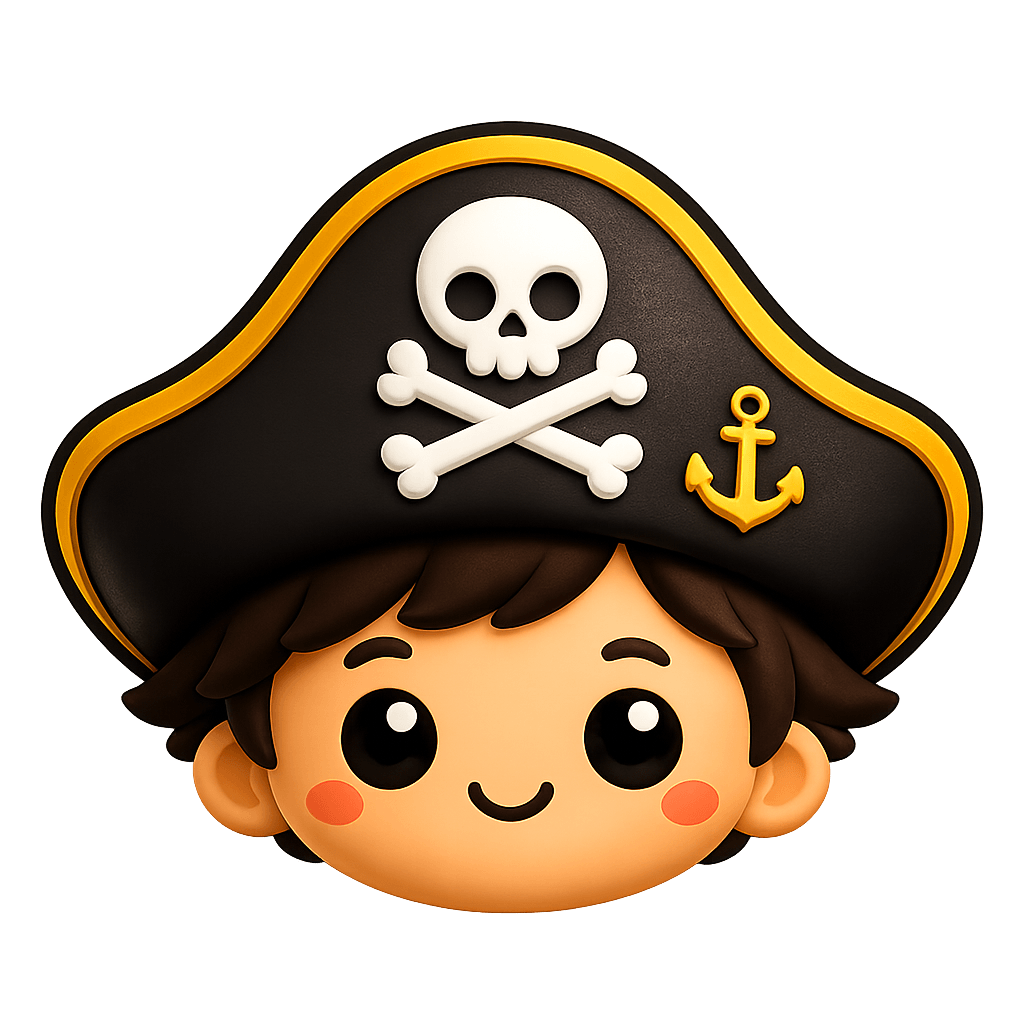
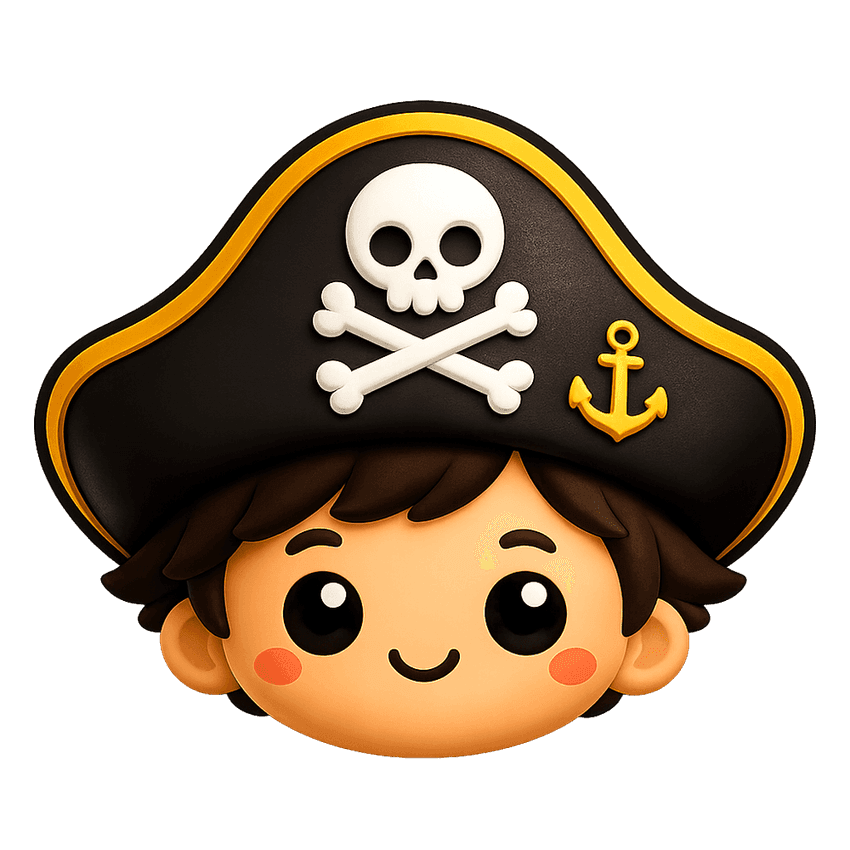
compressed pics

Changed region(s): [[0.6424, 0.6424, 0.6729, 0.7035], [0.5506, 0.6118, 0.6118, 0.6424]]

diff --git a/src/components/WalletModes.tsx b/src/components/WalletModes.tsx
@@ -26,7 +26,7 @@ const OPEN_MODE_BOXES = [
   {
     title: "Create Wallet",
     description: "Initialize your standard public EOA wallet to start managing your assets.",
-    imageSrc: "/wallet_modes/create_wallet_2.png",
+    imageSrc: "/wallet_modes/create_wallet_2.webp",
     imageAlt: "Create Wallet Screen",
     bullets: [
       "Standard EOA setup in seconds",
@@ -37,7 +37,7 @@ const OPEN_MODE_BOXES = [
   {
     title: "Use the Wallet",
     description: "Transfer, swap, and interact publicly just like every other wallet.",
-    imageSrc: "/wallet_modes/ship_send.png",
+    imageSrc: "/wallet_modes/ship_send.webp",
     imageAlt: "Use the Wallet Screen",
     bullets: [
       "Public transfer, swap, and bridge",
@@ -53,7 +53,7 @@ const NOID_MODE_PANELS = [
     title: "Hide Your Funds",
     description:
       "Move assets from your public balance into the shielded Noid pool. Once hidden, your holdings are cryptographically detached from your public address — invisible on-chain, yet always provably yours.",
-    imageSrc: "/wallet_modes/mask.png",
+    imageSrc: "/wallet_modes/mask.webp",
     imageAlt: "Hide Your Funds Screen",
     bullets: [
       "Privatize any token balance instantly",
@@ -67,7 +67,7 @@ const NOID_MODE_PANELS = [
     title: "Hidden Transfer",
     description:
       "Send value to anyone without revealing who, what, or how much. Transfers settle inside the shielded pool and are verified by zero-knowledge proofs instead of a public ledger.",
-    imageSrc: "/wallet_modes/hidden_trasnfer_successful.png",
+    imageSrc: "/wallet_modes/hidden_trasnfer_successful.webp",
     imageAlt: "Hidden Transfer Screen",
     bullets: [
       "Send anonymously to any address",
@@ -81,7 +81,7 @@ const NOID_MODE_PANELS = [
     title: "Unhide Your Funds",
     description:
       "Step back into open mode whenever you want. Withdraw from the shielded pool to any clean address with instant liquidity and zero waiting periods — privacy on your terms.",
-    imageSrc: "/wallet_modes/unmask_meno.png",
+    imageSrc: "/wallet_modes/unmask_meno.webp",
     imageAlt: "Unhide Your Funds Screen",
     bullets: [
       "Withdraw to any clean EOA on demand",
@@ -95,7 +95,7 @@ const NOID_MODE_PANELS = [
     title: "Hidden Actions",
     description:
       "Don't just hold privately — act privately. Swap, bridge, and NFTs entirely inside the shielded pool, so every move you make stays completely unseen on-chain.",
-    imageSrc: "/meno/hidden_swaps.png",
+    imageSrc: "/meno/hidden_swaps.webp",
     imageAlt: "Hidden swaps and bridges",
     bullets: [
       "Hidden swaps with zero trace",

diff --git a/src/components/Hero.tsx b/src/components/Hero.tsx
@@ -146,7 +146,7 @@ export default function Hero() {
                     border: "1px solid rgba(163,110,20,0.18)",
                     boxShadow: "0 24px 60px rgba(23,19,17,0.18), 0 8px 20px rgba(23,19,17,0.10), 0 1px 0 rgba(255,255,255,0.7) inset",
                   }}>
-                  <Image src="/wallet/lock.png" alt="Menoid unlock screen" width={480} height={760} className="w-full h-auto" />
+                  <Image src="/wallet/lock.webp" alt="Menoid unlock screen" width={480} height={760} className="w-full h-auto" />
                 </div>
                 <div className="absolute -bottom-7 left-1/2 -translate-x-1/2 whitespace-nowrap">
                   <span className="font-mono text-[9px] uppercase tracking-[0.22em] text-[var(--muted)]">Unlock</span>
@@ -160,7 +160,7 @@ export default function Hero() {
                     border: "1px solid rgba(163,110,20,0.22)",
                     boxShadow: "0 32px 80px rgba(23,19,17,0.22), 0 12px 32px rgba(163,110,20,0.14), 0 1px 0 rgba(255,255,255,0.7) inset",
                   }}>
-                  <Image src="/wallet/openMOde.png" alt="Menoid Open Mode" width={480} height={760} className="w-full h-auto" priority />
+                  <Image src="/wallet/openMOde.webp" alt="Menoid Open Mode" width={480} height={760} className="w-full h-auto" priority />
                 </div>
                 <div className="absolute -bottom-7 left-1/2 -translate-x-1/2 whitespace-nowrap">
                   <span className="font-mono text-[9px] uppercase tracking-[0.22em] text-[var(--gold-deep)]">Open Mode</span>
@@ -174,7 +174,7 @@ export default function Hero() {
                     border: "1px solid rgba(163,110,20,0.18)",
                     boxShadow: "0 24px 60px rgba(23,19,17,0.18), 0 8px 20px rgba(23,19,17,0.10), 0 1px 0 rgba(255,255,255,0.7) inset",
                   }}>
-                  <Image src="/wallet/NoidMode.png" alt="Menoid Noid Mode" width={480} height={760} className="w-full h-auto" />
+                  <Image src="/wallet/NoidMode.webp" alt="Menoid Noid Mode" width={480} height={760} className="w-full h-auto" />
                 </div>
                 <div className="absolute -bottom-7 left-1/2 -translate-x-1/2 whitespace-nowrap">
                   <span className="font-mono text-[9px] uppercase tracking-[0.22em] text-[var(--ink-soft)]">Noid Mode</span>

diff --git a/src/components/Loader.tsx b/src/components/Loader.tsx
@@ -126,7 +126,7 @@ export default function Loader() {
             }}
           >
             {/* eslint-disable-next-line @next/next/no-img-element */}
-            <img src="/texts/wttu.png" alt="Where Treasure Travels Unseen" style={{ display: "block", width: "100%", height: "auto" }} />
+            <img src="/texts/wttu.webp" alt="Where Treasure Travels Unseen" style={{ display: "block", width: "100%", height: "auto" }} />
           </div>
         )}
 
@@ -134,7 +134,7 @@ export default function Loader() {
         {title === "menoid" && (
           <div style={{ ...anchor("calc(-1 * clamp(30px, 4.5vw, 40px))"), width: "min(90vw, 1060px)", animation: "menoid-in 900ms var(--ease-out-quart) both" }}>
             {/* eslint-disable-next-line @next/next/no-img-element */}
-            <img src="/texts/menoid.png" alt="Menoid" style={{ display: "block", width: "100%", height: "auto" }} />
+            <img src="/texts/menoid.webp" alt="Menoid" style={{ display: "block", width: "100%", height: "auto" }} />
           </div>
         )}
 
@@ -175,7 +175,7 @@ export default function Loader() {
         {/* ── AI-NATIVE PRIVATE WALLET (smaller, tight below the line) ── */}
         <div style={{ ...anchor("clamp(74px, 9vw, 96px)"), width: "min(54vw, 420px)", animation: "ld-in 800ms var(--ease-out-quart) both" }}>
           {/* eslint-disable-next-line @next/next/no-img-element */}
-          <img src="/texts/ai-text.png" alt="AI-Native Private Wallet" style={{ display: "block", width: "100%", height: "auto" }} />
+          <img src="/texts/ai-text.webp" alt="AI-Native Private Wallet" style={{ display: "block", width: "100%", height: "auto" }} />
         </div>
       </div>
 

diff --git a/src/components/Privacy.tsx b/src/components/Privacy.tsx
@@ -8,7 +8,7 @@ const STEPS = [
     title: "Mask",
     sub: "Deposit MON into the ZK pool",
     body: "Roll two random field elements, build Poseidon commitments for you and the relayer, ECIES-encrypt the notes, then generate a Groth16 proof on-device. Funds leave your Open address as shielded notes.",
-    image: "/ship/send_ship.png",
+    image: "/ship/send_ship.webp",
     tag: "~20s · in-browser proof",
   },
   {
@@ -16,7 +16,7 @@ const STEPS = [
     title: "Noid send",
     sub: "Move shielded value, leave no wake",
     body: "Pick recipients by their Noid public key. The transfer circuit builds nullifiers and new commitments. The chain records a proof, not a path — no one sees who paid whom.",
-    image: "/ship/noid_transfer.png",
+    image: "/ship/noid_transfer.webp",
     tag: "Untraceable on Monad",
   },
   {
@@ -24,7 +24,7 @@ const STEPS = [
     title: "Unmask",
     sub: "Withdraw back to your Open address",
     body: "Batched up to four notes per proof. Menoid plans the batches, builds the Merkle proofs, and submits a single tx that returns your value — minus one flat relayer fee.",
-    image: "/ship/hidden_transfer_successful.png",
+    image: "/ship/hidden_transfer_successful.webp",
     tag: "One flat 0.5 MON fee",
   },
 ];

diff --git a/src/components/MenoSection.tsx b/src/components/MenoSection.tsx
@@ -304,7 +304,7 @@ export default function MenoSection() {
               <div className="flex justify-center lg:justify-start">
                 <div className="relative h-[clamp(180px,38vw,400px)] w-[clamp(180px,38vw,400px)] gentle-bob">
                   <Image
-                    src="/meno/meno_hi_text.png"
+                    src="/meno/meno_hi_text.webp"
                     alt="Meet Meno"
                     fill
                     sizes="(max-width: 1024px) 55vw, 400px"
@@ -407,7 +407,7 @@ export default function MenoSection() {
                 }}
               >
                 <Image
-                  src="/wallet/walletpic.png"
+                  src="/wallet/walletpic.webp"
                   alt="A wallet locked away, stale on the sand"
                   fill
                   sizes="(max-width: 1024px) 100vw, 48vw"

diff --git a/src/components/Footer.tsx b/src/components/Footer.tsx
@@ -78,7 +78,7 @@ export default function Footer() {
                   className="relative h-10 w-10 overflow-hidden rounded-full ring-1 ring-[rgba(255,255,255,0.15)]"
                   style={{ background: "#171311", boxShadow: "var(--shadow-sm)" }}
                 >
-                  <Image src="/meno/meno_logo.png" alt="" fill sizes="40px" className="object-cover" />
+                  <Image src="/meno/meno_logo.webp" alt="" fill sizes="40px" className="object-cover" />
                 </div>
                 <span className="font-display text-2xl font-bold tracking-tight text-[#FBF1D9]">Menoid</span>
               </div>

diff --git a/src/components/Nav.tsx b/src/components/Nav.tsx
@@ -121,7 +121,7 @@ export default function Nav() {
                 boxShadow: "0 0 0 1px rgba(163,110,20,0.25), var(--shadow-xs)",
               }}
             >
-              <Image src="/meno/meno_logo.png" alt="" fill sizes="32px" className="object-cover" />
+              <Image src="/meno/meno_logo.webp" alt="" fill sizes="32px" className="object-cover" />
             </div>
             <span className={`font-display text-xl font-bold tracking-tight transition-colors duration-300 ${brandText}`}>
               Menoid

diff --git a/src/components/WaitlistCTA.tsx b/src/components/WaitlistCTA.tsx
@@ -44,7 +44,7 @@ export default function WaitlistCTA() {
               <div className="relative mx-auto md:ml-0 md:-translate-x-4 w-[clamp(240px,70vw,400px)]">
                 <div className="waitlist-ship relative w-full aspect-square">
                   <Image
-                    src="/ship/ship.png"
+                    src="/ship/ship.webp"
                     alt="Menoid Ship"
                     fill
                     sizes="(max-width: 768px) 70vw, 400px"

diff --git a/src/components/Roadmap.tsx b/src/components/Roadmap.tsx
@@ -141,7 +141,7 @@ function CardInner({ phase }: { phase: Phase }) {
       {/* footer */}
       <div className="rm-foot">
         <span className="rm-foot-icon">
-          <Image src="/meno/meno_logo.png" alt="" fill sizes="26px" className="object-cover" />
+          <Image src="/meno/meno_logo.webp" alt="" fill sizes="26px" className="object-cover" />
         </span>
         <span className="rm-foot-name">Menoid {phase.version}</span>
         {current ? (

diff --git a/src/components/Modes.tsx b/src/components/Modes.tsx
@@ -224,7 +224,7 @@ export default function Modes() {
                   }}
                 />
                 <Image
-                  src="/meno/meno_with_wallet.png"
+                  src="/meno/meno_with_wallet.webp"
                   alt="Meno holding a wallet"
                   fill
                   sizes="(min-width: 768px) 50vw, 100vw"

diff --git a/src/components/CTA.tsx b/src/components/CTA.tsx
@@ -62,7 +62,7 @@ export default function CTA() {
             {/* mini meno */}
             <div className="relative mx-auto h-28 w-28 gentle-bob">
               <Image
-                src="/meno/meno_hi_text.png"
+                src="/meno/meno_hi_text.webp"
                 alt=""
                 fill
                 sizes="112px"

diff --git a/src/app/not-found.tsx b/src/app/not-found.tsx
@@ -42,7 +42,7 @@ export default function NotFound() {
         {/* Meno */}
         <div className="relative mb-2 h-44 w-44 gentle-bob sm:h-52 sm:w-52">
           <Image
-            src="/meno/meno_hi.png"
+            src="/meno/meno_hi.webp"
             alt="Meno the pirate"
             fill
             sizes="208px"
